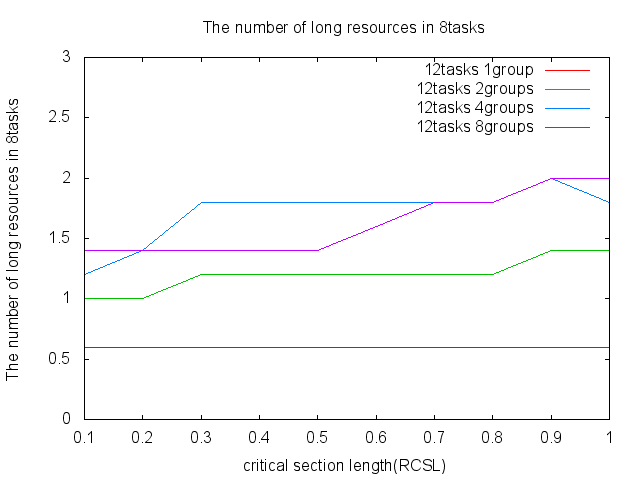
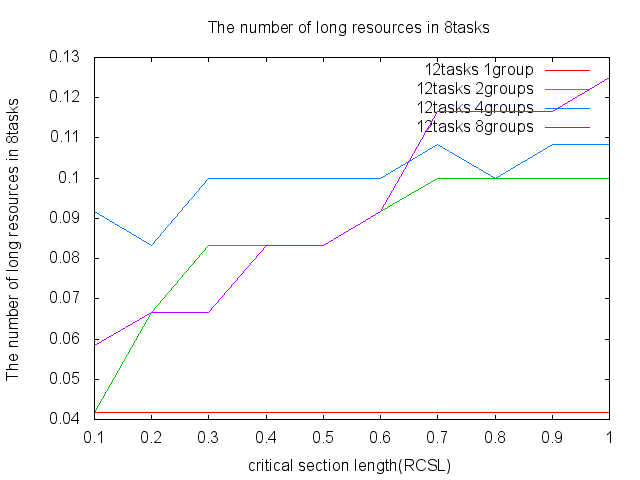
グラフ化してみたけど，あまりいい結果が得られない．いろいろ試行錯誤してみる．

diff --git a/120411.rb b/120411.rb
@@ -170,7 +170,7 @@ resouce_count_max = 4
 start_task_num = 8
 end_task_num = 16
 task_step_num = 4
-loop_count = 5
+loop_count = 10
 
 
 @manager = AllManager.new
@@ -184,7 +184,9 @@ mes = ""
 
 8.step(16, 4){|t|
   tasks = t
-  for g in [1, 2, 4, 8]
+  for g in [4]
+  end
+  #for g in [1, 2, 4, 8]
     groups = g
     info = ["120411", extime, rcsl]
     c = []
@@ -205,6 +207,8 @@ mes = ""
         pbar.inc
         rcsl += 0.1
         i += 1
+        taskset = TaskSet.new($taskList)
+        taskset.show_taskset
       end
       @manager.all_data_clear
     }
